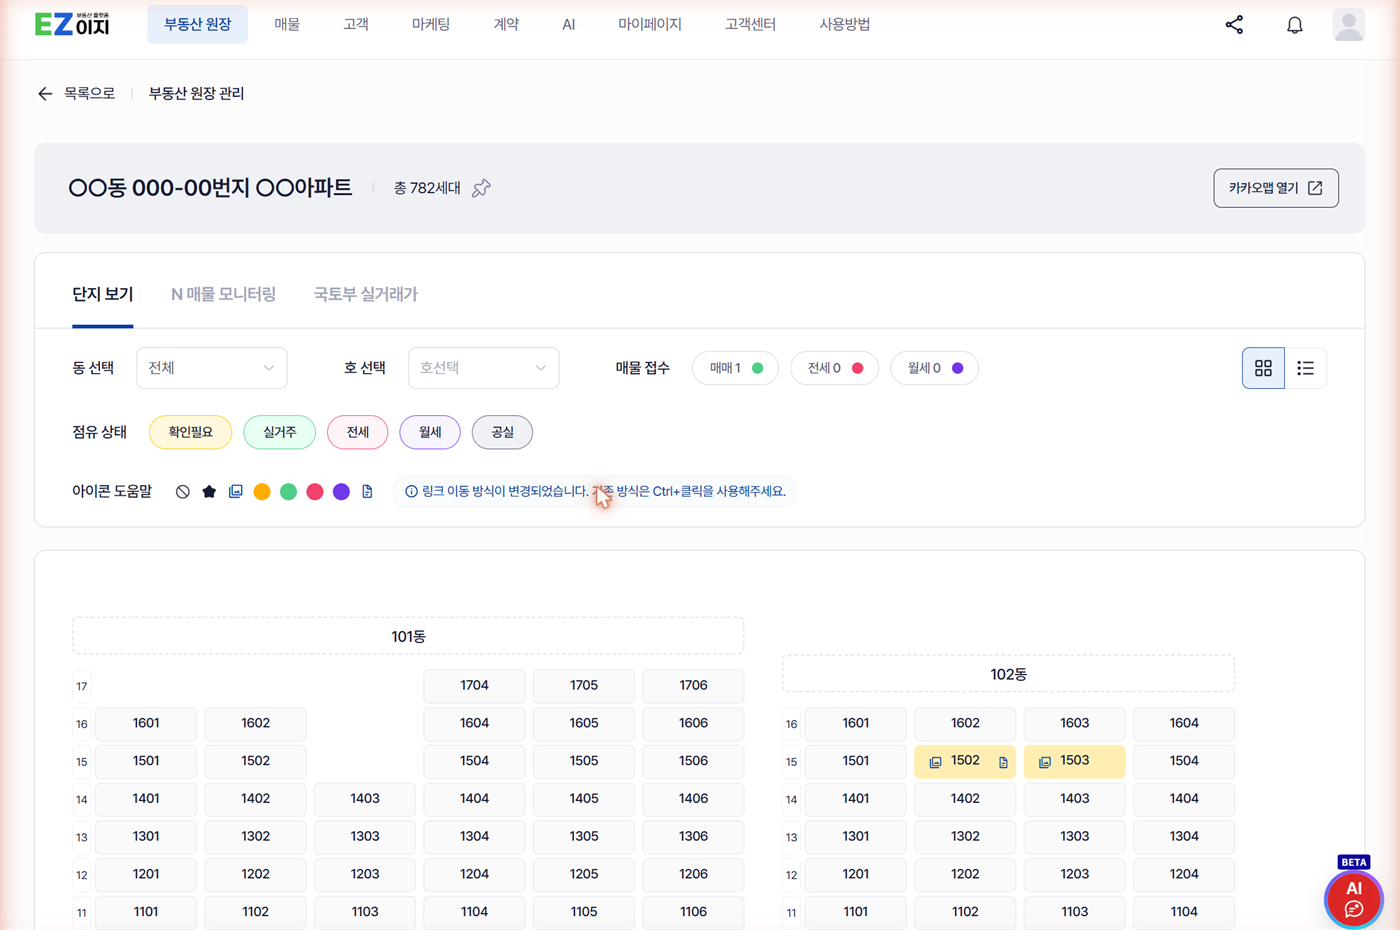
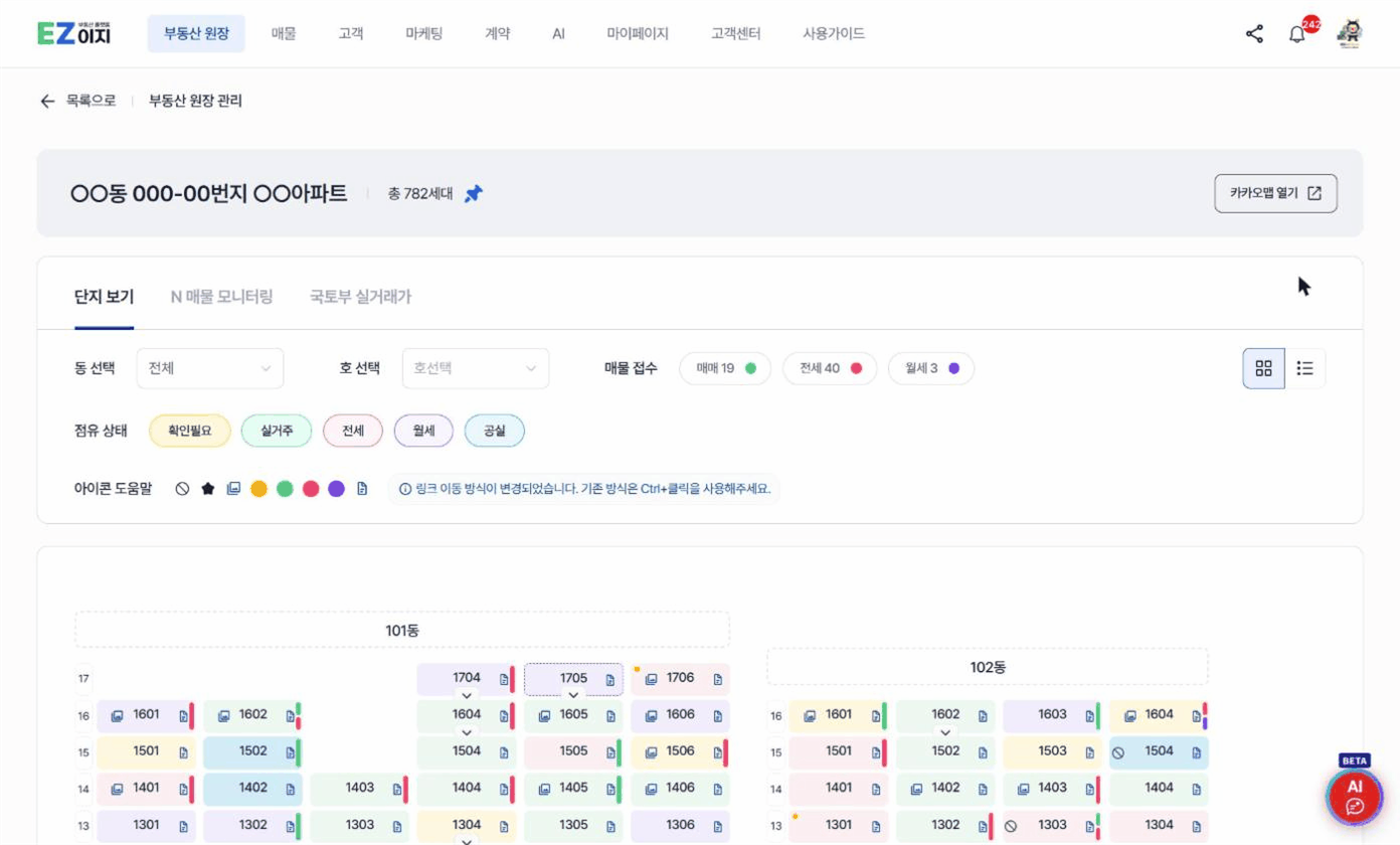
만기 그리드 스크린샷을 다시 찍었습니다
공실 색상이 하늘색으로 바뀐 것과 상단 메뉴 이름이 사용가이드로
바뀐 것이 함께 반영됐습니다. 단지명과 지번은 기존 이미지와 같은
방식으로 가렸습니다.

diff --git a/WEEKLY.md b/WEEKLY.md
@@ -214,7 +214,7 @@
 | **플랜 만료 팝업에 「기본 기능은 계속」 안내 추가** | **가이드 수정** | `reference/alerts.md` 에 반영 |
 | **매물 상세 광고정보에서 렛츠·이지허브 종료** | **가이드에 쓰지 않음** | **네이버 광고 종료는 `매물 → N 광고 관리`에서 하는 것으로 확정했습니다** *(2026-11-05 대표님)*. 가이드는 지금 그대로 두고 매물 상세 경로는 넣지 않습니다 |
 | **등기 소유권 순위번호 기준 변경 · 대장 소유자 갱신 버튼** | **문서 없음** | 원장 상세 소유권 탭은 아직 가이드에 없습니다 (6절에 올렸습니다) |
-| **원장 그리드 공실 색상 변경** | **확인 필요** | 색이 바뀌었으니 `lease-expiry-02` 스크린샷을 다시 찍어야 합니다 |
+| **원장 그리드 공실 색상 변경** | **스크린샷 교체** | **2026-11-05 `lease-expiry-02` 를 다시 찍었습니다.** 공실 칩이 **하늘색**으로 바뀐 것이 보입니다. 상단 메뉴의 옛 이름(`사용방법`)도 **`사용가이드`**로 함께 고쳐졌습니다 |
 | **회원가입 개설등록번호 하이픈 재검색** | **확인만** | 하이픈을 빠뜨려도 찾아주는 보완입니다. 가이드가 하이픈을 지시한 적이 없어 고칠 곳이 없습니다 |
 | **이지허브 광고 수정 화면에 종료 추가** | **확인만** | `naver-ad.md` 9절이 이미 「같은 자리에서 고친다」로 안내하고 있습니다 |
 | **임시원장·정규원장 병합** | **배포 대기** | 진행중이라 4절 대기 목록에 올렸습니다 |
